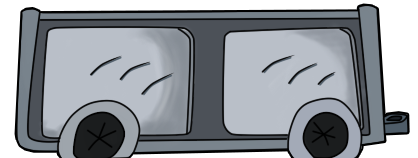
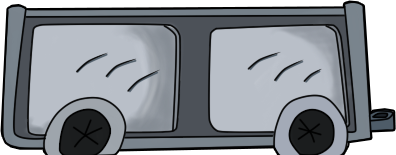
Added relative position to images
TODO: Resize images to fit the screen for best gameplay.

diff --git a/core/src/mx/itesm/donchito/DonChitoLivermorio.java b/core/src/mx/itesm/donchito/DonChitoLivermorio.java
@@ -17,6 +17,7 @@ import com.badlogic.gdx.utils.TimeUtils;
  */
 public class DonChitoLivermorio {
 
+    public static final double GRAVITY = 10.8;
     Vector2 position;
 
     Vector2 lastFramePosition;
@@ -32,7 +33,8 @@ public class DonChitoLivermorio {
 
 
     //player
-    public static final float PLAYER_RELATIVE = 0f;
+    public static final float PLATFORM_RELATIVE_Y = 15f;
+    public static final float PLATFORM_RELATIVE_X = 65f;
 
     public static final float PLAYER_STANCE_WIDTH = 21.0f;
     public static final float PLAYER_MOVE_SPEED = 250;
@@ -53,9 +55,9 @@ public class DonChitoLivermorio {
         walkState = WalkState.STANDING;
 
         TextureRegion texturaCompleta = new TextureRegion(new Texture(Constants.PLAYER_TEXTURE));
-        TextureRegion[][] texturaPersonaje = texturaCompleta.split(16,32);
-        animacion = new Animation(0.25f,texturaPersonaje[0][3],
-                texturaPersonaje[0][2], texturaPersonaje[0][1] );
+        TextureRegion[][] texturaPersonaje = texturaCompleta.split(96,134);
+        animacion = new Animation(.15f,texturaPersonaje[0][0],
+                texturaPersonaje[0][1], texturaPersonaje[0][2]);
         // Animación infinita
         animacion.setPlayMode(Animation.PlayMode.LOOP);
     }
@@ -63,15 +65,15 @@ public class DonChitoLivermorio {
     public void update(float delta, Array<SimpleAsset> platforms) {
         lastFramePosition.set(position);
 
-        velocity.y -= 10.8;
+        velocity.y -= GRAVITY;
         position.mulAdd(velocity, delta);
 
         if (jumpState != JumpState.JUMPING) {
             jumpState = JumpState.FALLING;
 
-            if (position.y - PLAYER_RELATIVE < 0) {
+            if (position.y <= 0) {
                 jumpState = JumpState.GROUND;
-                position.y = PLAYER_RELATIVE;
+                position.y = -5;
                 velocity.y = 0;
             }
 
@@ -79,7 +81,7 @@ public class DonChitoLivermorio {
                 if (landedOnPlatform(platform)) {
                     jumpState = JumpState.GROUND;
                     velocity.y = 0;
-                    position.y = platform.getSprite().getY() + platform.getSprite().getHeight() + PLAYER_RELATIVE;
+                    position.y = platform.getSprite().getY() + platform.getSprite().getHeight() - PLATFORM_RELATIVE_Y;
                 }
             }
         }
@@ -112,14 +114,14 @@ public class DonChitoLivermorio {
         boolean straddle = false;
 
 
-        if (lastFramePosition.y - PLAYER_RELATIVE >= platform.getSprite().getY() + platform.getSprite().getHeight() &&
-                position.y - PLAYER_RELATIVE < platform.getSprite().getY() + platform.getSprite().getHeight()) {
+        if (lastFramePosition.y >= platform.getSprite().getY() + platform.getSprite().getHeight() - PLATFORM_RELATIVE_Y &&
+                position.y < platform.getSprite().getY() + platform.getSprite().getHeight()- PLATFORM_RELATIVE_Y) {
 
             float leftFoot = position.x - PLAYER_STANCE_WIDTH / 2;
             float rightFoot = position.x + PLAYER_STANCE_WIDTH / 2;
 
-            leftFootIn = (platform.getSprite().getX() < leftFoot && platform.getSprite().getX() + platform.getSprite().getWidth() > leftFoot);
-            rightFootIn = (platform.getSprite().getX() < rightFoot && platform.getSprite().getX() + platform.getSprite().getWidth() > rightFoot);
+            leftFootIn = (platform.getSprite().getX()< leftFoot && platform.getSprite().getX() + platform.getSprite().getWidth()- PLATFORM_RELATIVE_X > leftFoot);
+            rightFootIn = (platform.getSprite().getX()< rightFoot && platform.getSprite().getX() + platform.getSprite().getWidth()- PLATFORM_RELATIVE_X > rightFoot);
 
             straddle = (platform.getSprite().getX() > leftFoot && platform.getSprite().getX() + platform.getSprite().getWidth() < rightFoot);
         }
@@ -176,6 +178,10 @@ public class DonChitoLivermorio {
 
         if (facing == Facing.RIGHT && jumpState != JumpState.GROUND) {
             //region = DonChito.getAssetManager().get(Constants.PLAYER_JUMP_RIGHT);
+            region = animacion.getKeyFrame(0);
+            if (region.isFlipX()) {
+                region.flip(true,false);
+            }
         } else if (facing == Facing.RIGHT && walkState == WalkState.STANDING) {
             //region = DonChito.getAssetManager().get(Constants.PLAYER_STAND_RIGHT);
             region = animacion.getKeyFrame(0);
@@ -190,6 +196,10 @@ public class DonChitoLivermorio {
             }
         } else if (facing == Facing.LEFT && jumpState != JumpState.GROUND) {
             //region = DonChito.getAssetManager().get(Constants.PLAYER_JUMP_LEFT);
+            region =  animacion.getKeyFrame(0);
+            if (!region.isFlipX()) {
+                region.flip(true,false);
+            }
         } else if (facing == Facing.LEFT && walkState == WalkState.STANDING) {
             //region = DonChito.getAssetManager().get(Constants.PLAYER_STAND_LEFT);
             region =  animacion.getKeyFrame(0);

diff --git a/core/src/mx/itesm/donchito/Constants.java b/core/src/mx/itesm/donchito/Constants.java
@@ -73,7 +73,7 @@ public class Constants {
 
 
     //Livermorio Escape
-    public static final String PLATFORM = "Imagenes/Livermorio/carreta1.png";
+    public static final String PLATFORM = "Imagenes/Livermorio/Entintados/carreta1.1.png";
     public static final String LIVERMORIO_FONDO_PNG = "Imagenes/Livermorio/Piedrasyfondo/fondo.jpg";
     public static final String PLAYER_TEXTURE = "Imagenes/Livermorio/Sprites/spriteDonChito.png";
 

diff --git a/core/src/mx/itesm/donchito/DonChito.java b/core/src/mx/itesm/donchito/DonChito.java
@@ -11,7 +11,7 @@ public class DonChito extends Game {
 	private static final AssetManager assetManager = new AssetManager();
 	@Override
 	public void create() {
-		this.setScreen(new MenuPrincipal(this));
+		this.setScreen(new LivermorioEscape(this));
 	}
 
 	@Override
